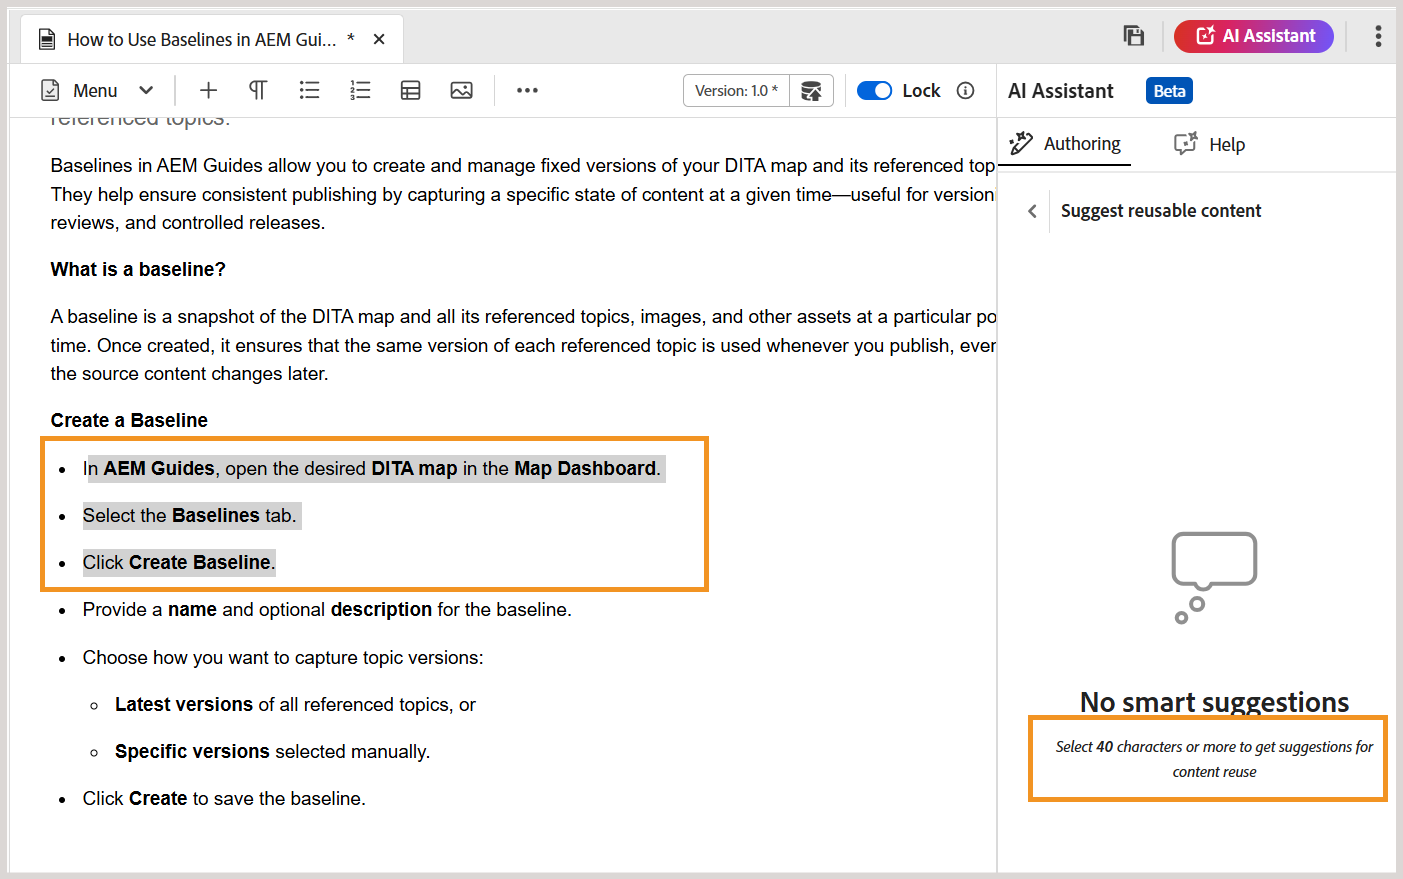
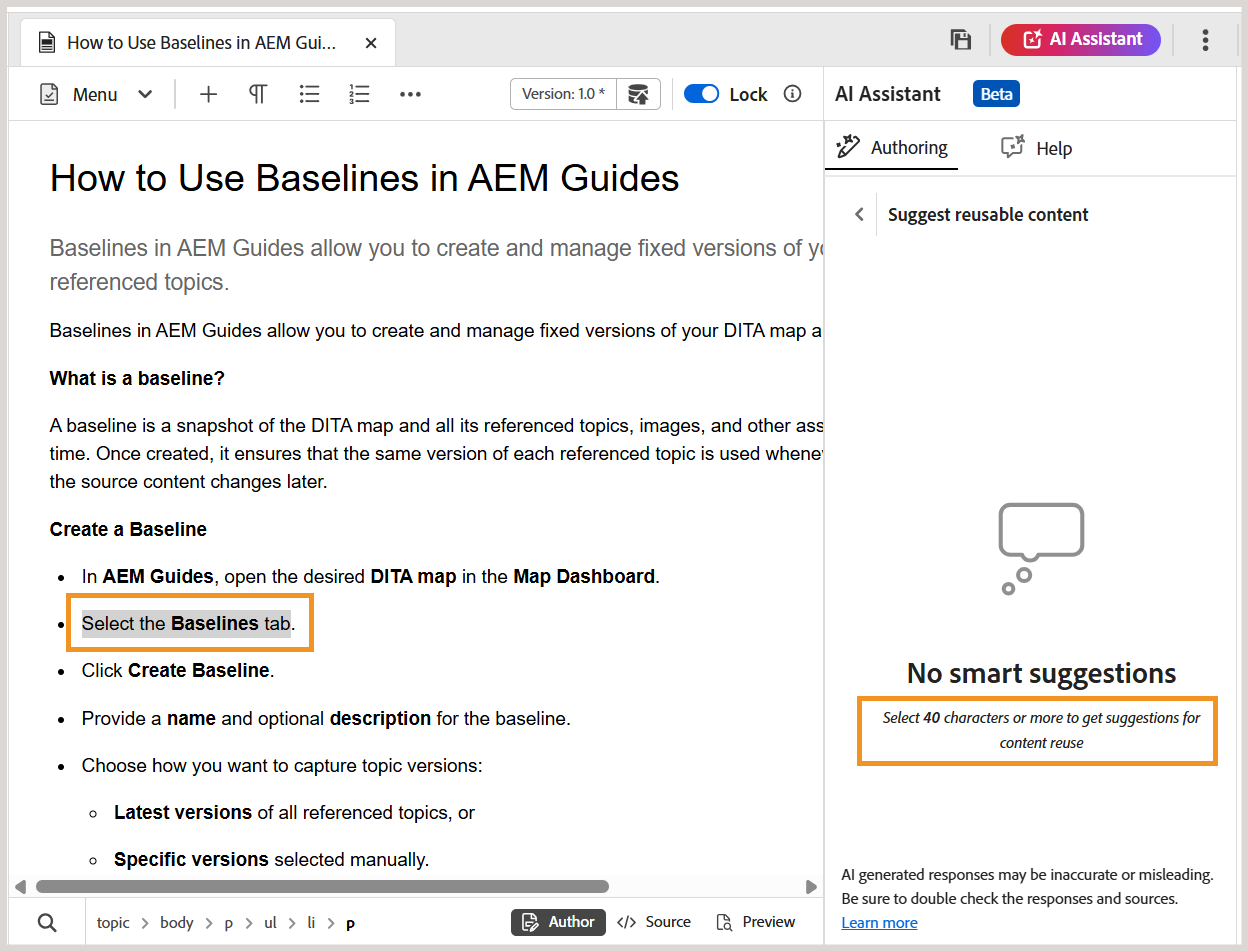
ai assistant updates

diff --git a/help/product-guide/cs-install-guide/conf-folder-level.md b/help/product-guide/cs-install-guide/conf-folder-level.md
@@ -438,8 +438,11 @@ Perform the following steps to configure standard AI configuration at the global
 
     ![](assets/smart-suggestions-character-limit.png)   
 
-    
-    This helps Authors understand whether suggestions are unavailable due to insufficient character selection or genuinely no matching content.
+    However, for general selections where no suggestions are available, the following message is displayed:
+
+    ![](assets/smart-suggestions-select-another-text-message.png)  
+
+    This helps Authors understand whether suggestions are unavailable due to insufficient character selection or genuinely no matching content. 
 
     **Maximum suggestions**: Enter the maximum number of suggestions the Authors can get while authoring the content. For example, if this number is 5, the Author can view five or fewer smart suggestions.
 
